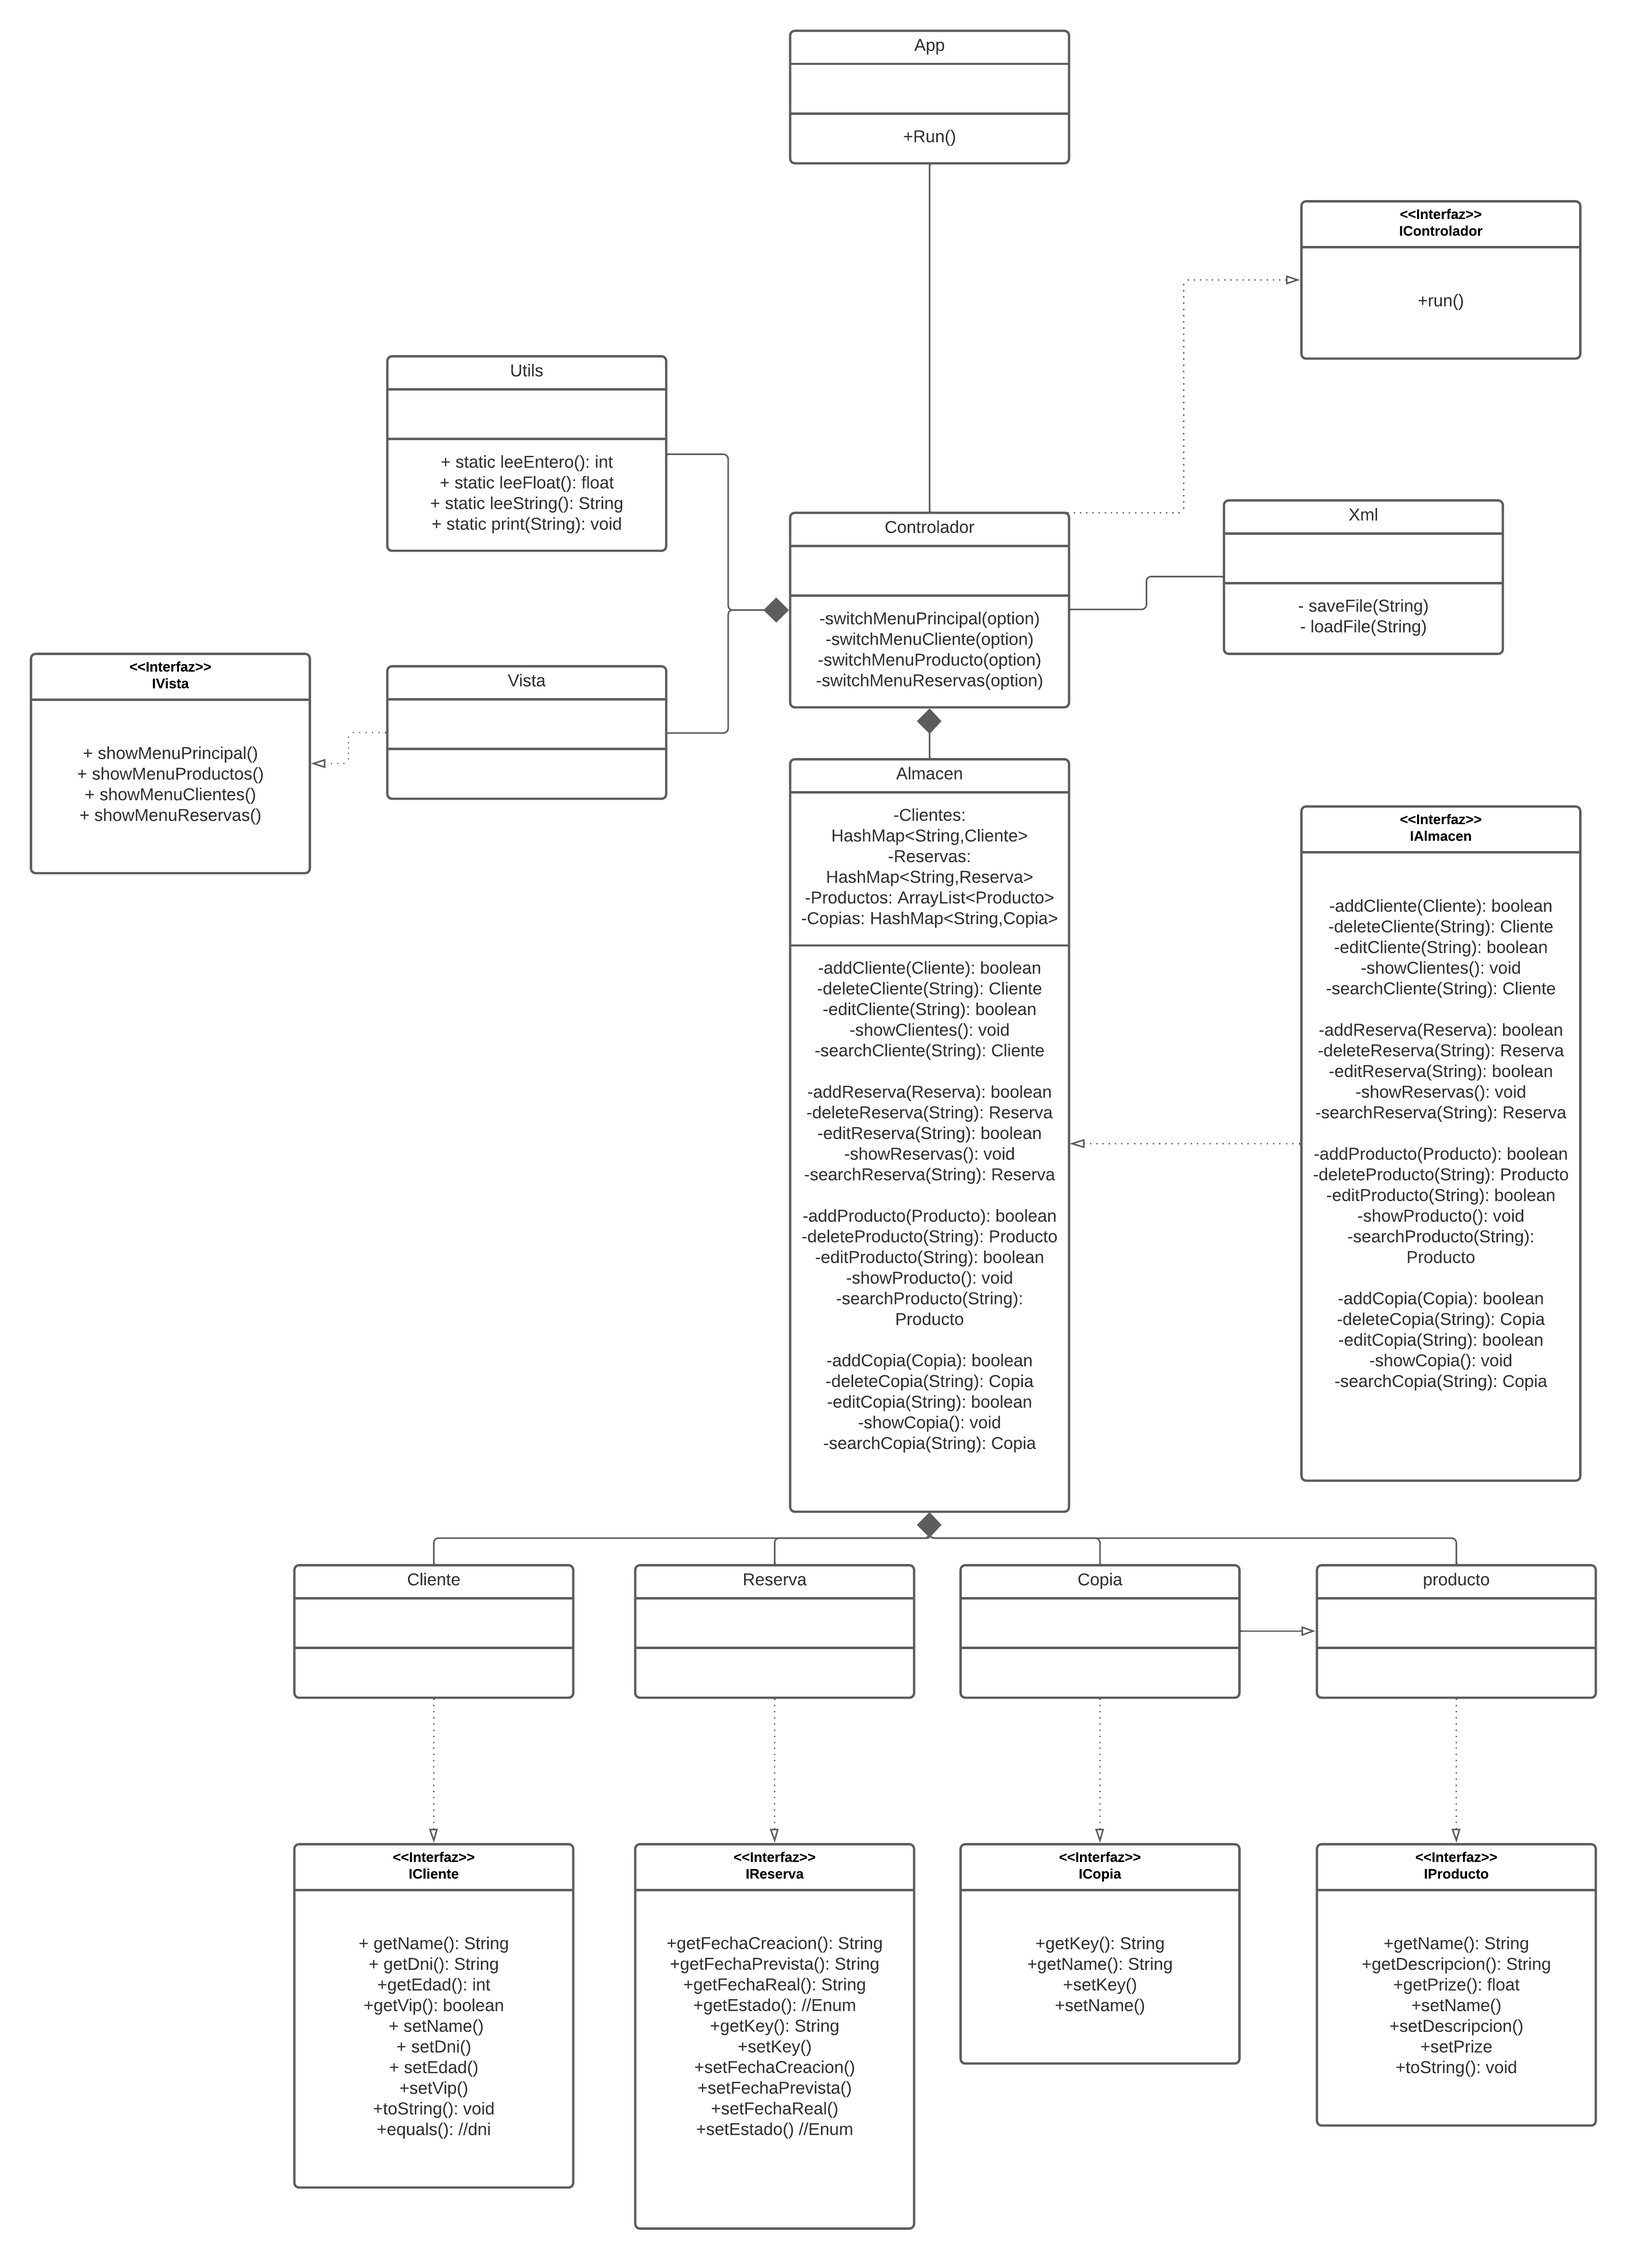
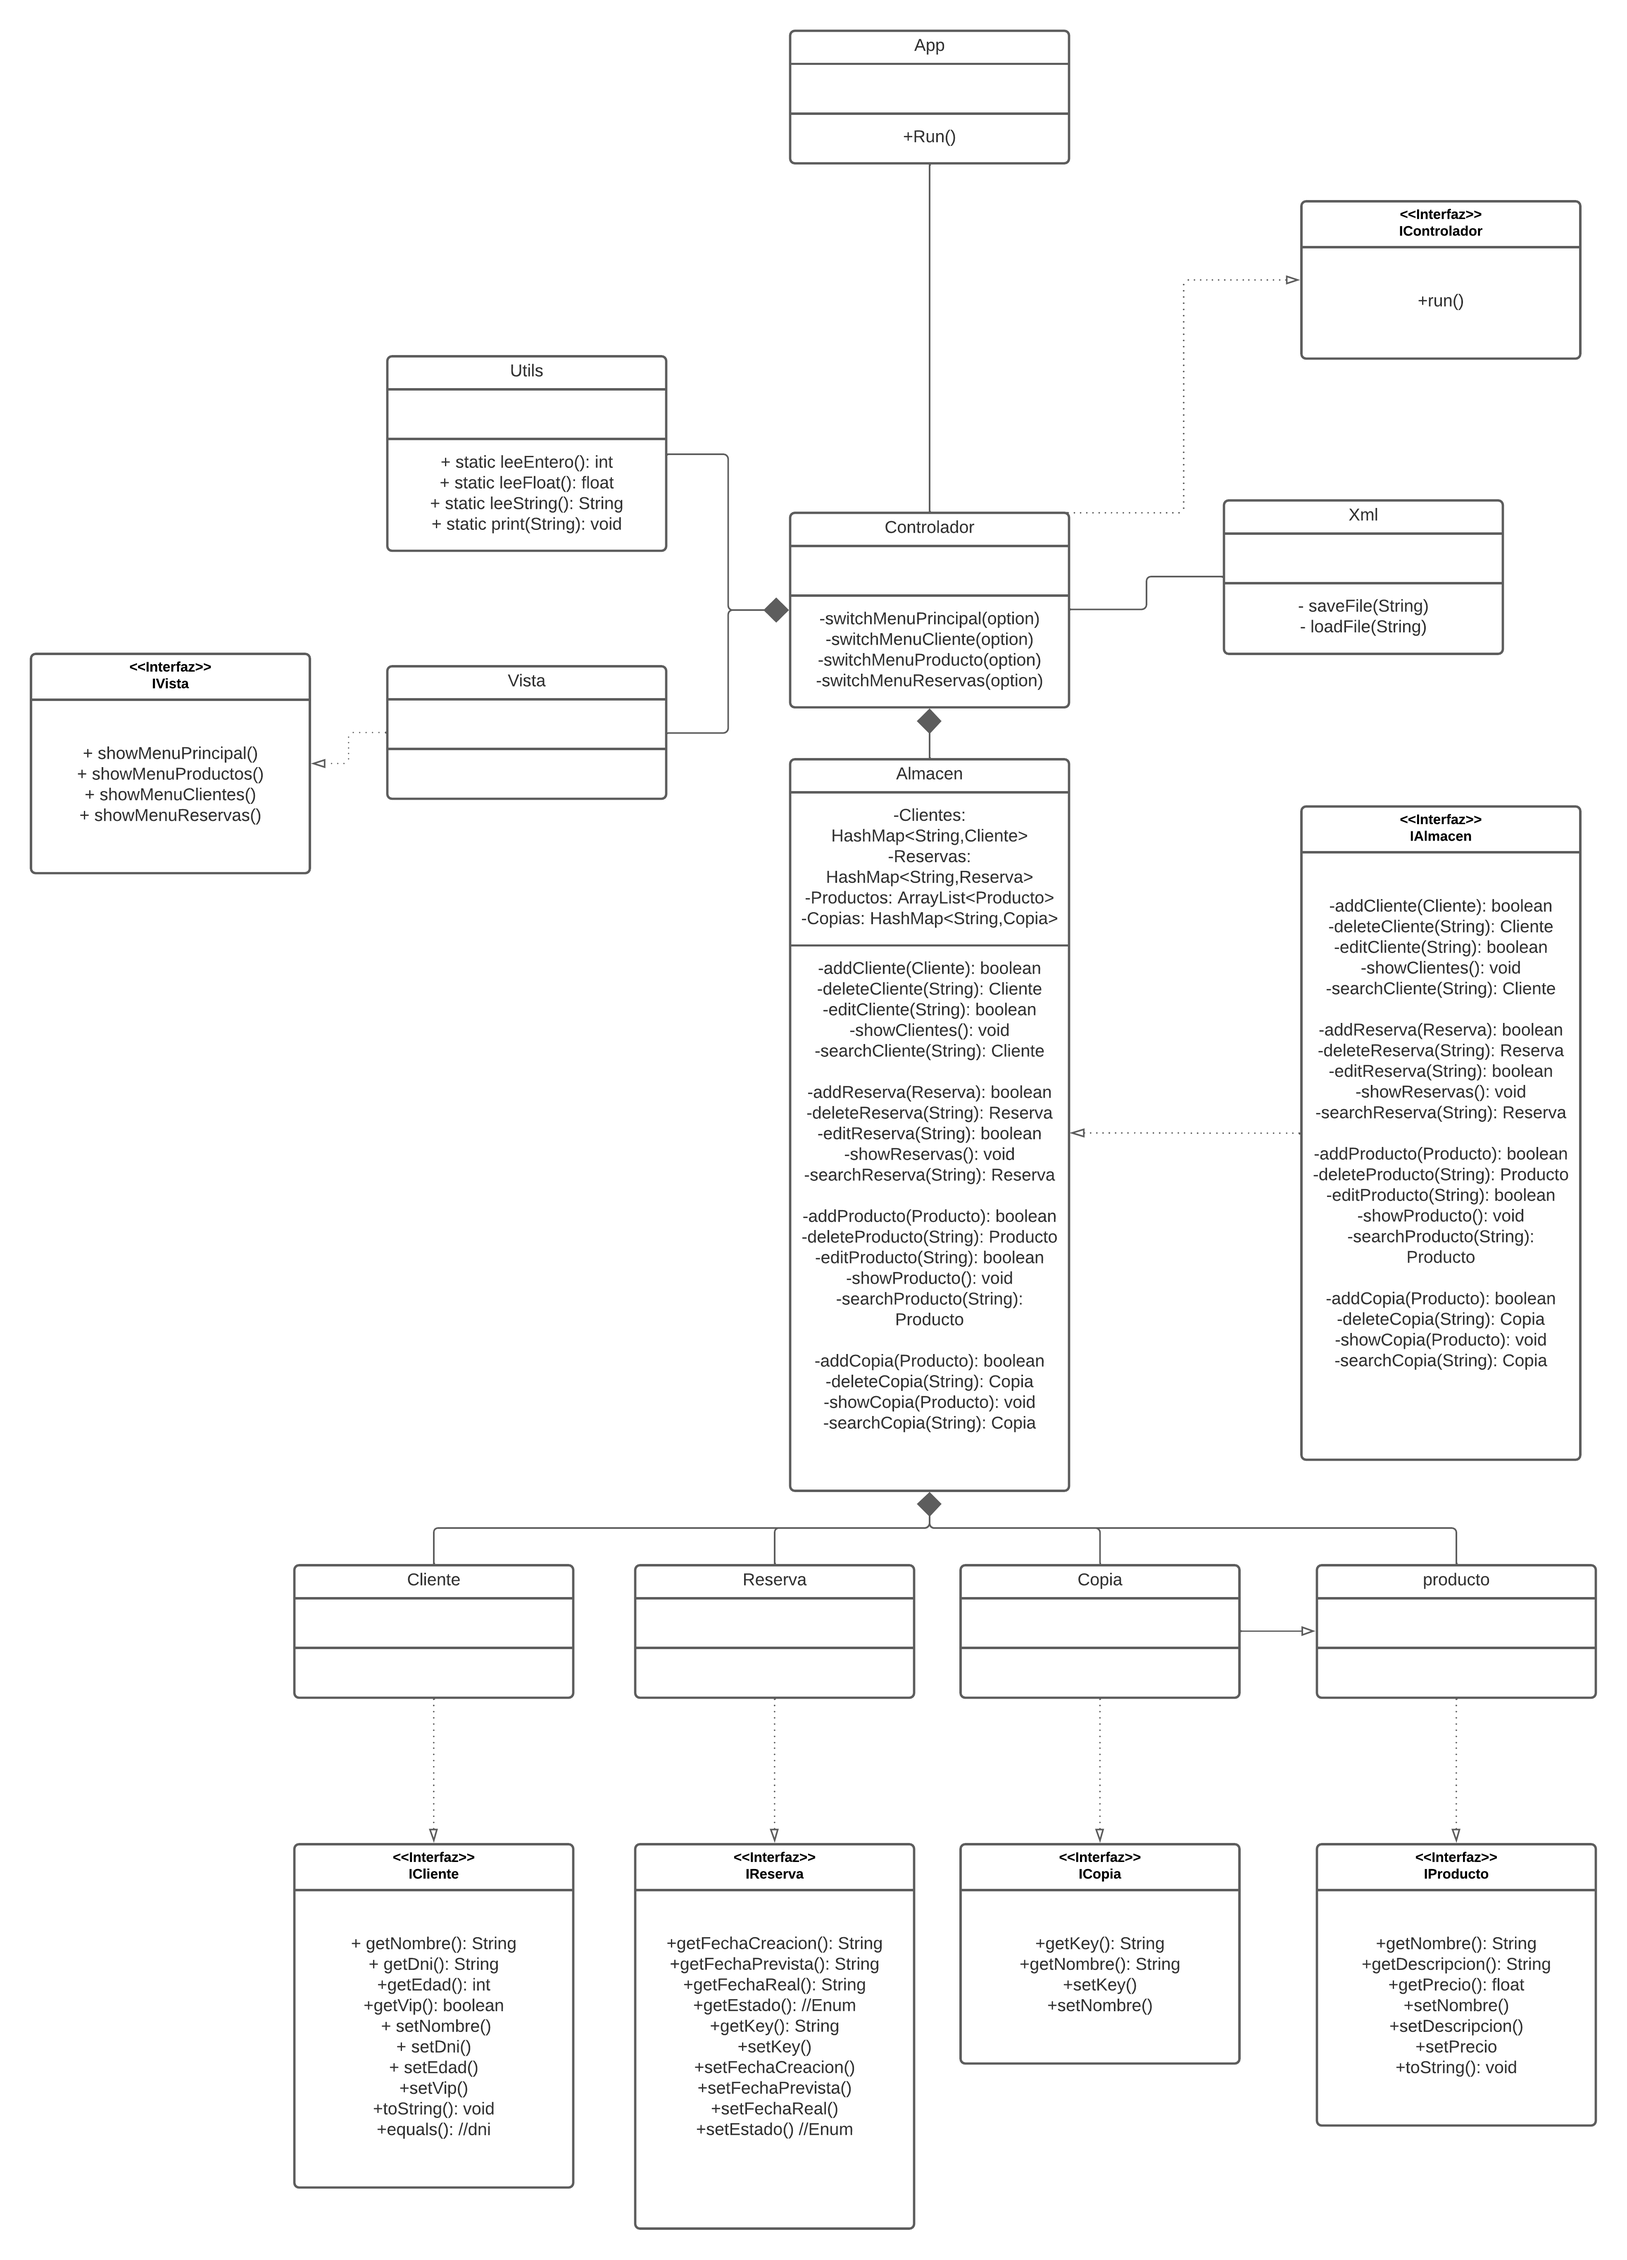
arreglando diagrama de clases y generando interfaces

diff --git a/src/main/java/interfaces/IReserva.java b/src/main/java/interfaces/IReserva.java
@@ -1,0 +1,16 @@
+package interfaces;
+
+public interface IReserva {
+	String getFechaCreacion();
+	String getFechaPrevista();
+	String getFechaReal();
+	boolean getEstado();
+	String getKey();
+	void setFechaCreacion(String fechaCreacion);
+	void setFechaPrevista(String fechaPrevista);
+	void setFechaReal(String fechaReal);
+	void setEstado(boolean estado);
+	void setKey(String key);
+	boolean equals(String key);
+	String toString();
+}

diff --git a/src/main/java/interfaces/ICliente.java b/src/main/java/interfaces/ICliente.java
@@ -1,0 +1,14 @@
+package interfaces;
+
+public interface ICliente {
+	String getNombre();
+	String getDni();
+	int getEdad();
+	boolean isVip();
+	void setNombre(String nombre);
+	void setDni(String dni);
+	void setEdad(int edad);
+	boolean setVip(boolean vip);
+	boolean equals(Object o);
+	String toString();
+}

diff --git a/src/main/java/interfaces/IProducto.java b/src/main/java/interfaces/IProducto.java
@@ -1,0 +1,12 @@
+package interfaces;
+
+public interface IProducto {
+	String getNombre();
+	String getDescripcion();
+	float getPrecio();;
+	void setNombre(String nombre);
+	void setDescripcion(String descripcion);
+	void setPrecio(float precio);
+	boolean equals(Object o);
+	String toString();
+}

diff --git a/src/main/java/interfaces/IVista.java b/src/main/java/interfaces/IVista.java
@@ -1,0 +1,8 @@
+package interfaces;
+
+public interface IVista {
+	void showMenuPrincipal();
+	void showMenuProductos();
+	void showMenuClientes();
+	void showMenuReservas();
+}

diff --git a/src/main/java/interfaces/ICopia.java b/src/main/java/interfaces/ICopia.java
@@ -1,0 +1,8 @@
+package interfaces;
+
+public interface ICopia {
+	String getKey();
+	String getNombre();
+	void setKey(String key);
+	void setNombre(String nombre);
+}

diff --git a/src/main/java/interfaces/IUtils.java b/src/main/java/interfaces/IUtils.java
@@ -1,0 +1,8 @@
+package interfaces;
+
+public interface IUtils {
+	int Entero();
+	float Float();
+	String String();
+	void Print(String s);
+}
